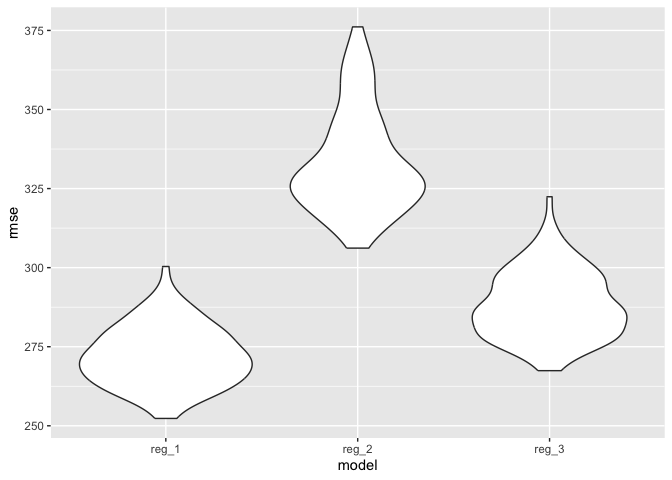
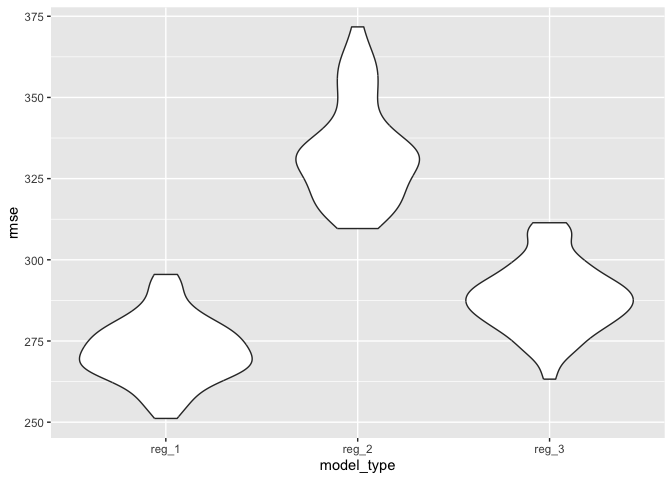
problem 2: get log_product and r_squared

diff --git a/p8105_hw6_zj2379.md b/p8105_hw6_zj2379.md
@@ -173,22 +173,18 @@ boot_sample = function(df) {
 
 boot_straps = 
   tibble(strap_number = 1:200) |> 
-  mutate(
-    strap_sample = map(strap_number, \(i) boot_sample(df = weather_df))
-  )
-
-bootstrap_results = 
-  boot_straps |> 
-  mutate(
-    models = map(strap_sample, \(df) lm(tmax ~ tmin + prcp, data = weather_df) ),
+   mutate(
+    strap_sample = map(strap_number, \(i) boot_sample(weather_df)),
+    models = map(strap_sample, \(df) lm(tmax ~ tmin + prcp, data = df)),
     results = map(models, broom::tidy),
-  glance = map(models, broom::glance))|> 
-  select(-strap_sample, -models) |> 
+    r_squared = map_dbl(models, \(model) summary(model)$r.squared)
+  ) |> 
+  select(strap_number, results,r_squared) |> 
   unnest(results)
 
-log_product=bootstrap_results|>
-group_by(strap_number)|>
-  filter(term != "(Intercept)")|>
+log_product=boot_straps|> 
+  filter(term!="(Intercept")|>
+  group_by(strap_number)|>
   summarize(estimate_product = prod(estimate))|>
   mutate(log_estimate_product = log(estimate_product))
 ```
@@ -199,8 +195,15 @@ group_by(strap_number)|>
     ## ! NaNs produced
 
 ``` r
-r_squared_values <- bootstrap_results |>select(glance)|>unnest(glance)|>select(r.squared)
+r_squared_values=boot_straps|>select(r_squared)
 ```
+
+boot_results = tibble(strap_number = 1:5000) \|\> mutate( strap_sample =
+map(strap_number, (i) boot_sample(weather_df)), models =
+map(strap_sample, (df) lm(tmax ~ tmin + prcp, data = df)), results =
+map(models, broom::tidy), r_squared = map_dbl(models, (model)
+summary(model)\$r.squared) ) \|\> select(strap_number,
+results,r_squared) \|\> unnest(results)
 
 # Problem 3
 
@@ -365,16 +368,16 @@ cv_df |> pull(train) |> nth(1) |> as_tibble()
     ## # A tibble: 3,473 × 22
     ##    babysex bhead blength   bwt delwt fincome frace gaweeks malform menarche
     ##    <fct>   <dbl>   <dbl> <dbl> <dbl>   <dbl> <fct>   <dbl> <fct>      <dbl>
-    ##  1 2          34      51  3629   177      35 1        39.9 0             13
-    ##  2 1          34      48  3062   156      65 2        25.9 0             14
-    ##  3 2          36      50  3345   148      85 1        39.9 0             12
-    ##  4 1          34      52  3062   157      55 1        40   0             14
-    ##  5 2          34      52  3374   156       5 1        41.6 0             13
-    ##  6 1          33      52  3374   129      55 1        40.7 0             12
-    ##  7 2          33      46  2523   126      96 2        40.3 0             14
+    ##  1 1          34      48  3062   156      65 2        25.9 0             14
+    ##  2 1          34      52  3062   157      55 1        40   0             14
+    ##  3 2          34      52  3374   156       5 1        41.6 0             13
+    ##  4 1          33      52  3374   129      55 1        40.7 0             12
+    ##  5 2          33      46  2523   126      96 2        40.3 0             14
+    ##  6 2          33      49  2778   140       5 1        37.4 0             12
+    ##  7 1          36      52  3515   146      85 1        40.3 0             11
     ##  8 1          33      50  3459   169      75 2        40.7 0             12
     ##  9 2          35      51  3317   130      55 1        43.4 0             13
-    ## 10 2          35      48  3175   158      75 1        39.7 0             13
+    ## 10 1          35      51  3459   146      55 1        39.4 0             12
     ## # ℹ 3,463 more rows
     ## # ℹ 12 more variables: mheight <dbl>, momage <dbl>, mrace <fct>, parity <fct>,
     ## #   pnumlbw <dbl>, pnumsga <dbl>, ppbmi <dbl>, ppwt <dbl>, smoken <dbl>,
@@ -387,16 +390,16 @@ cv_df |> pull(test) |> nth(1) |> as_tibble()
     ## # A tibble: 869 × 22
     ##    babysex bhead blength   bwt delwt fincome frace gaweeks malform menarche
     ##    <fct>   <dbl>   <dbl> <dbl> <dbl>   <dbl> <fct>   <dbl> <fct>      <dbl>
-    ##  1 2          33      49  2778   140       5 1        37.4 0             12
-    ##  2 1          36      52  3515   146      85 1        40.3 0             11
-    ##  3 1          35      51  3459   146      55 1        39.4 0             12
-    ##  4 2          34      49  3118   161      45 2        38.9 0             10
-    ##  5 1          36      54  3402   161      95 1        40.1 0             11
-    ##  6 1          38      53  3799   167      75 1        39.9 0             12
-    ##  7 2          35      53  3600   141      35 1        42.3 0             14
-    ##  8 1          34      52  3118   130      75 1        41   0             12
-    ##  9 2          33      51  3289   155      65 1        41.6 0             15
-    ## 10 2          34      51  3203   132      85 1        43.7 0             13
+    ##  1 2          34      51  3629   177      35 1        39.9 0             13
+    ##  2 2          36      50  3345   148      85 1        39.9 0             12
+    ##  3 2          35      57  3374   147      45 1        39.6 0             12
+    ##  4 1          34      63  3175   143      25 1        41.9 0             13
+    ##  5 1          36      52  3629   152      45 1        39.6 0             11
+    ##  6 1          35      55  3856   171      85 1        41.1 0             13
+    ##  7 2          33      49  3147   140      45 1        40.6 0             12
+    ##  8 2          34      49  3033   128      25 1        41.1 0             12
+    ##  9 1          33      50  3175   168      25 1        40   0             13
+    ## 10 1          34      51  3459   123      45 1        40   0             12
     ## # ℹ 859 more rows
     ## # ℹ 12 more variables: mheight <dbl>, momage <dbl>, mrace <fct>, parity <fct>,
     ## #   pnumlbw <dbl>, pnumsga <dbl>, ppbmi <dbl>, ppwt <dbl>, smoken <dbl>,
@@ -453,20 +456,6 @@ cv_results |>
     ## 3 reg_3        288.
 
 ``` r
-cv_results  |> 
-  select(starts_with("rmse")) |> 
-  pivot_longer(
-    everything(),
-    names_to = "model", 
-    values_to = "rmse",
-    names_prefix = "rmse_") |> 
-  mutate(model = fct_inorder(model)) |> 
-  ggplot(aes(x = model, y = rmse)) + geom_violin()
-```
-
-![](p8105_hw6_zj2379_files/figure-gfm/unnamed-chunk-13-1.png)<!-- -->
-
-``` r
 cv_results |> 
   select(starts_with("rmse")) |> 
   pivot_longer(
@@ -479,7 +468,7 @@ cv_results |>
   geom_violin()
 ```
 
-![](p8105_hw6_zj2379_files/figure-gfm/unnamed-chunk-14-1.png)<!-- -->
+![](p8105_hw6_zj2379_files/figure-gfm/unnamed-chunk-13-1.png)<!-- -->
 
 Reg_1 might have the best performance in terms of RMSE because its
 distribution is lower and tighter, indicating lower and more consistent
